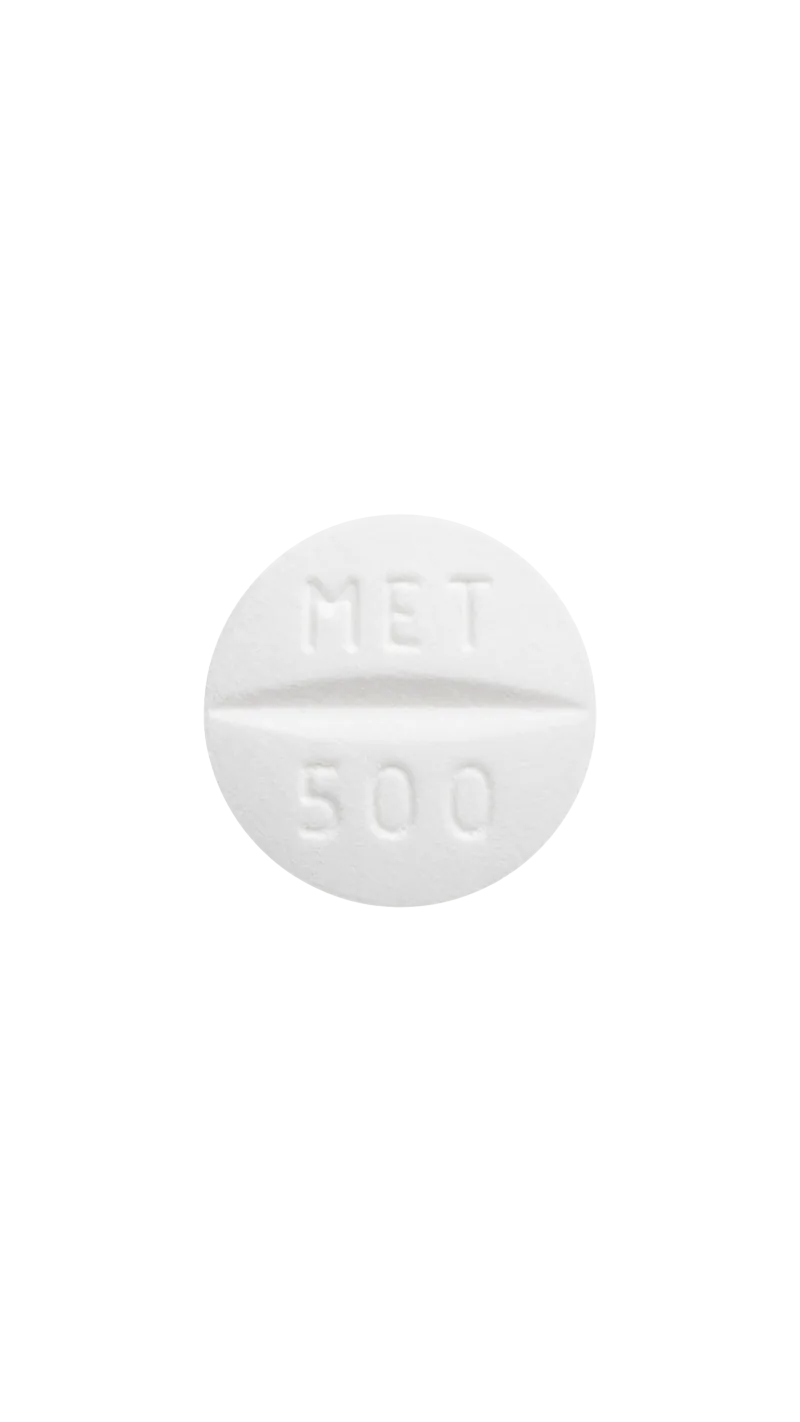
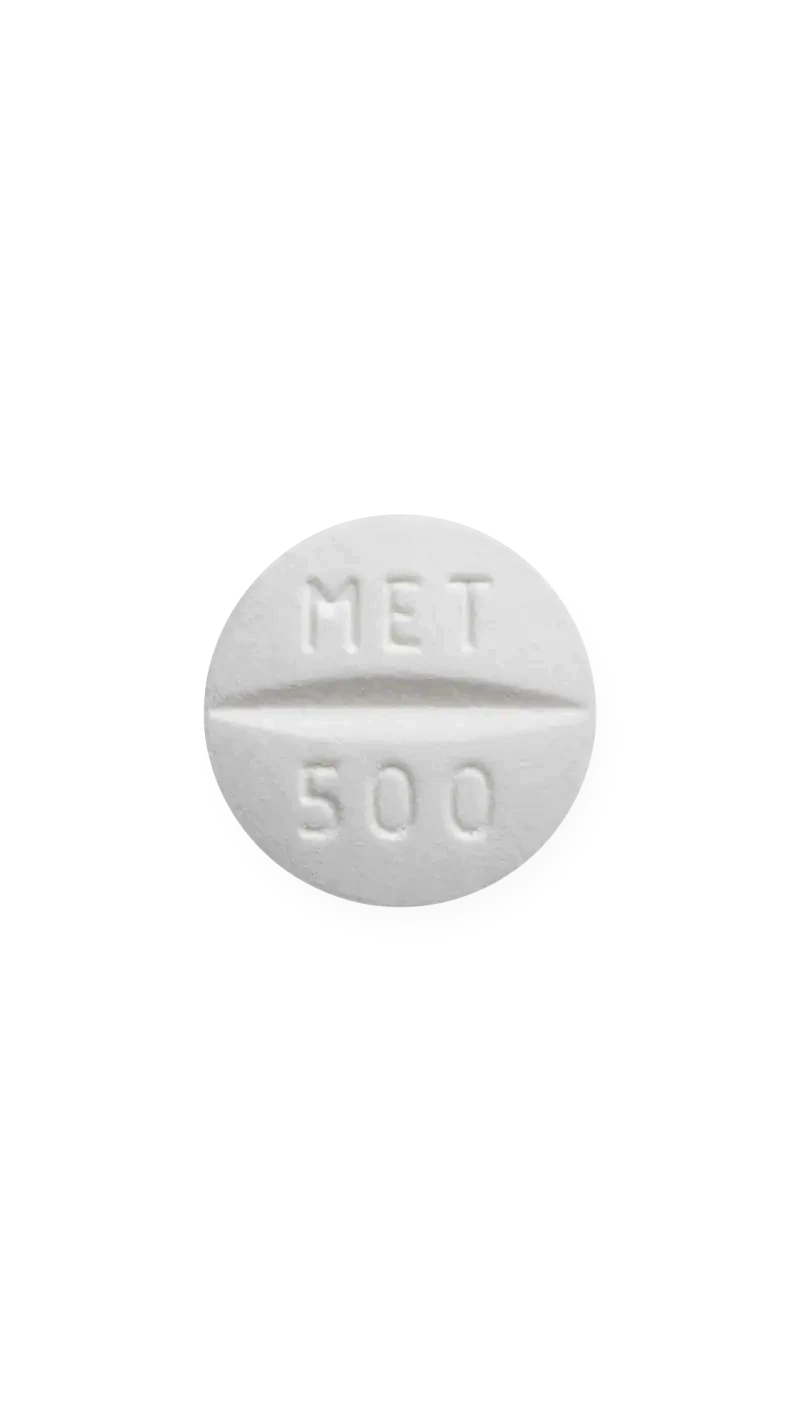
fix(catalog-book): drop Tesamorelin, use print artwork for back cover and pill photos
- Remove Tesamorelin from the book manifest (cut from the 2026 print run)
- Back cover now renders the print catalog artwork full-bleed like the
  cover/welcome/shipping pages
- Metformin and Tadalafil pages use the print catalog photography via a
  new book-only image override (the sitewide renders read badly on-page)

Changed region(s): [[0.25, 0.4023, 0.7188, 0.6498], [0.5625, 0.4023, 0.625, 0.4332]]

diff --git a/src/components/catalog-book/pages/BookStaticPages.tsx b/src/components/catalog-book/pages/BookStaticPages.tsx
@@ -3,8 +3,6 @@ import type { ComponentType } from "react";
 import type { StaticPageId } from "@/data/catalog-book";
 import { STATE_LICENSES } from "@/data/licenses";
 import USLicenseMap from "@/components/USLicenseMap";
-import { CONTACT, HOURS, SITE } from "@/lib/constants";
-
 /**
  * The one-off (non-product) pages of the native catalog book: cover, intro
  * spreads, LifeFile, coming-soon teaser, and back matter. Copy is transcribed
@@ -617,58 +615,10 @@ function VialFillPage() {
 
 function BackCoverPage() {
   return (
-    <PageShell className="flex flex-col justify-center bg-white">
-      <Image
-        src="/images/logo.svg"
-        alt="Logos RX"
-        width={220}
-        height={66}
-        className="h-14 w-auto"
-      />
-      <h2 className="mt-8 text-4xl font-bold leading-tight text-navy sm:text-5xl">
-        Logos RX
-        <br />
-        Pharmacy
-      </h2>
-      <p className="mt-4 text-sm font-semibold uppercase tracking-wider text-navy/80">
-        [email redacted]
-        <br />
-        logosrx.com
-        <br />
-        Tampa, FL
-      </p>
-
-      <div className="mt-10 grid max-w-2xl grid-cols-1 gap-8 sm:grid-cols-2">
-        <div>
-          <h3 className="text-xs font-bold uppercase tracking-wider text-navy">
-            Headquarters
-          </h3>
-          <p className="mt-2 text-sm leading-relaxed text-navy/75">
-            {CONTACT.address.street}
-            <br />
-            {CONTACT.address.city}, {CONTACT.address.state} {CONTACT.address.zip}
-            <br />
-            P: 813-886-2800
-            <br />
-            F: {CONTACT.fax}
-            <br />
-            {CONTACT.email}
-          </p>
-        </div>
-        <div>
-          <h3 className="text-xs font-bold uppercase tracking-wider text-navy">
-            Hours of Operation
-          </h3>
-          <p className="mt-2 text-sm leading-relaxed text-navy/75">
-            Retail: {HOURS.retail}
-            <br />
-            Online: {HOURS.online}
-            <br />
-            Chat support: {SITE.url.replace("https://", "")} {HOURS.chat}
-          </p>
-        </div>
-      </div>
-    </PageShell>
+    <ArtworkPage
+      src="/images/catalog-book/page-back-cover.webp"
+      alt="Logos RX Pharmacy — [email redacted], logosrx.com, Tampa, FL. Headquarters: 7543 W. Waters Ave, Tampa, FL 33615. P: 813-886-2800, F: 813-886-2822, [email redacted]. Hours: Retail Mon–Fri 9:00am–5:00pm, Online Mon–Sat 8:00am–7:00pm EST, chat support at www.logosrx.com 24/7."
+    />
   );
 }
 

diff --git a/src/data/catalog-book.ts b/src/data/catalog-book.ts
@@ -3,7 +3,7 @@
  *
  * This file is the single source of truth for the order and content of the
  * online 2026 catalog at `/download/catalog/view`. It mirrors the printed
- * 32-page book (plus Tesamorelin, which never made the print run), but every
+ * 32-page book, but every
  * page is real HTML composed from `products.ts` / `learning.ts` — not a page
  * scan. To add, remove, or reorder pages, edit `CATALOG_BOOK_PAGES`.
  *
@@ -68,6 +68,12 @@ export interface ProductBookPage extends BookPageBase {
    * in the page's "Suggested Retail" block. Empty → block hidden.
    */
   skuIds: readonly string[];
+  /**
+   * Book-only hero image override (e.g. the print catalog's photography)
+   * when the sitewide product image doesn't read well on the page.
+   */
+  image?: string;
+  imageAlt?: string;
 }
 
 export interface DosageBookPage extends BookPageBase {
@@ -158,6 +164,10 @@ export const CATALOG_BOOK_PAGES: readonly BookPage[] = [
     tocLabel: "Metformin",
     tocGroup: ORALS,
     skuIds: ["metformin-500mg", "metformin-850mg", "metformin-1000mg"],
+    // The white-on-white pill render is illegible on the page; use the print
+    // catalog's photograph instead.
+    image: "/images/catalog-book/metformin-hand.webp",
+    imageAlt: "A hand holding a Metformin oral tablet",
   },
   { kind: "product", id: "finasteride", slug: "finasteride", tocLabel: "Finasteride", tocGroup: ORALS, skuIds: ["finasteride-1mg"] },
   { kind: "product", id: "minoxidil", slug: "minoxidil", tocLabel: "Minoxidil", tocGroup: ORALS, skuIds: ["minoxidil-2.5mg"] },
@@ -172,8 +182,18 @@ export const CATALOG_BOOK_PAGES: readonly BookPage[] = [
 
   { kind: "static", id: "peptides", staticId: "peptides-teaser", tocLabel: "Peptide Therapies (Coming Soon)", tocGroup: INJECTABLES },
   { kind: "product", id: "cyanocobalamin-b12", slug: "cyanocobalamin-b12", tocLabel: "Cyanocobalamin (B12)", tocGroup: INJECTABLES, skuIds: ["cyanocobalamin-b12-10000mcg"] },
-  { kind: "product", id: "tadalafil", slug: "tadalafil", tocLabel: "Tadalafil", tocGroup: ORALS, skuIds: [] },
-  { kind: "product", id: "tesamorelin", slug: "tesamorelin", tocLabel: "Tesamorelin", tocGroup: INJECTABLES, skuIds: ["tesamorelin-5mg-4ml"] },
+  {
+    kind: "product",
+    id: "tadalafil",
+    slug: "tadalafil",
+    tocLabel: "Tadalafil",
+    tocGroup: ORALS,
+    skuIds: [],
+    // The framed screenshot-style asset reads badly on the page; use the
+    // print catalog's capsule photograph.
+    image: "/images/catalog-book/tadalafil-capsule.webp",
+    imageAlt: "A Logos RX Tadalafil 5mg capsule",
+  },
 
   { kind: "static", id: "white-label", staticId: "white-label", tocLabel: "White-Label Packaging", tocGroup: RESOURCES },
   { kind: "static", id: "shipping", staticId: "shipping", tocLabel: "Shipping & Packaging", tocGroup: RESOURCES },

diff --git a/src/components/catalog-book/buildBookPages.tsx b/src/components/catalog-book/buildBookPages.tsx
@@ -44,7 +44,11 @@ export function buildBookPages(
         node = (
           <BookProductPage
             key={page.id}
-            product={product}
+            product={
+              page.image
+                ? { ...product, image: page.image, imageAlt: page.imageAlt }
+                : product
+            }
             prices={resolveBookPrices(page.skuIds, priceIndex)}
           />
         );

diff --git a/src/components/catalog-book/pages/BookProductPage.tsx b/src/components/catalog-book/pages/BookProductPage.tsx
@@ -103,13 +103,13 @@ export default function BookProductPage({ product, prices }: BookProductPageProp
             className="book-rise flex items-start justify-center"
             style={{ animationDelay: "90ms" }}
           >
-            <div className="group w-full max-w-[280px] rounded-2xl bg-gradient-to-b from-cream to-beige/60 p-6 transition-shadow duration-300 hover:shadow-xl hover:shadow-navy/10">
+            <div className="group w-full max-w-[280px] overflow-hidden rounded-2xl bg-gradient-to-b from-cream to-beige/60 p-6 transition-shadow duration-300 hover:shadow-xl hover:shadow-navy/10">
               <Image
                 src={product.image}
                 alt={product.imageAlt ?? product.name}
                 width={480}
                 height={480}
-                className="animate-book-float h-auto w-full object-contain transition-transform duration-500 ease-out group-hover:scale-110"
+                className="animate-book-float h-auto w-full rounded-xl object-contain transition-transform duration-500 ease-out group-hover:scale-110"
               />
             </div>
           </div>